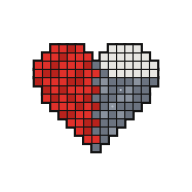
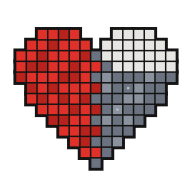
Add files via upload

diff --git a/index.html b/index.html
@@ -1,7 +1,7 @@
 <!DOCTYPE html>
 <html lang="es">
 <head>
- <link rel="manifest" href="manifest.json"><link rel="apple-touch-icon" href="icon-192.png"><link rel="icon" href="favicon.ico" sizes="any"><link rel="icon" type="image/png" href="favicon-32.png">
+ <link rel="manifest" href="manifest.json"><link rel="apple-touch-icon" href="apple-touch-icon.png"><link rel="icon" href="favicon.ico" sizes="any"><link rel="icon" type="image/png" href="favicon-32.png">
 <meta charset="utf-8">
 <meta name="viewport" content="width=device-width, initial-scale=1">
 <meta name="theme-color" content="#000000">
@@ -12,7 +12,7 @@
 body{background:#111;color:#f5f5f5;font-family:system-ui,-apple-system,"Segoe UI",Roboto,sans-serif;display:flex;align-items:center;justify-content:center;padding:16px;overflow:hidden;position:relative}
 .b1,.b2,.b3{position:absolute;border-radius:50%;z-index:0}.b1{width:220px;height:220px;left:-60px;top:-50px;background:#fff}.b2{width:160px;height:160px;right:-30px;top:45%;background:#555}.b3{width:260px;height:260px;left:25%;bottom:-140px;background:#2a2a2a}
 .card{position:relative;z-index:1;width:100%;max-width:360px;border:1px solid rgba(255,255,255,.2);border-radius:14px;padding:22px 18px;background:rgba(0,0,0,.5);-webkit-backdrop-filter:blur(18px);backdrop-filter:blur(18px)}
-.logo{display:block;width:56px;height:56px;border-radius:12px;background:#fff;margin-bottom:14px}
+.logo{display:block;width:56px;height:56px;border-radius:13px;margin-bottom:14px}
 h1{font-size:1.3rem;margin:0 0 4px}p{margin:0 0 14px;color:#bbb;font-size:.9rem}
 label{display:block;font-size:.8rem;color:#bbb;margin-bottom:4px}
 input[type=password]{width:100%;min-height:46px;border-radius:8px;border:1px solid rgba(255,255,255,.3);background:rgba(255,255,255,.06);color:#fff;font:inherit;padding:10px 12px}
@@ -27,7 +27,7 @@ button.ghost{background:none;color:#fff;border:1px solid rgba(255,255,255,.35);m
 <body>
 <span class="b1"></span><span class="b2"></span><span class="b3"></span>
 <form class="card" id="f" autocomplete="off">
- <img class="logo" src="icon-192.png" alt="" width="56" height="56">
+ <img class="logo" src="apple-touch-icon.png" alt="" width="56" height="56">
  <h1>Mi Rutina</h1>
  <p>Escribe tu contraseña para abrir la app.</p>
  <label for="pw">Contraseña</label>
@@ -49,7 +49,7 @@ var raw = unb64(PAYLOAD), salt = raw.slice(0,16), iv = raw.slice(16,28), ct = ra
 function openApp(key){
   return crypto.subtle.decrypt({name:"AES-GCM", iv:iv}, key, ct).then(function(pt){
     var html = new TextDecoder().decode(pt);
-    var PWA = '<link rel="manifest" href="manifest.json"><link rel="apple-touch-icon" href="icon-192.png"><link rel="icon" href="favicon.ico" sizes="any"><link rel="icon" type="image/png" href="favicon-32.png"><meta name="theme-color" content="#000000">';
+    var PWA = '<link rel="manifest" href="manifest.json"><link rel="apple-touch-icon" href="apple-touch-icon.png"><link rel="icon" href="favicon.ico" sizes="any"><link rel="icon" type="image/png" href="favicon-32.png"><meta name="theme-color" content="#000000">';
     html = html.replace(/<link[^>]*rel=["\']?manifest["\']?[^>]*>/gi, "");
     if (/<head(\s[^>]*)?>/i.test(html)) html = html.replace(/<head(\s[^>]*)?>/i, function(m){ return m + PWA; }); else html = PWA + html;
     var go = function(){ document.open(); document.write(html); document.close(); };

diff --git a/sw.js b/sw.js
@@ -1,6 +1,6 @@
 // Mi Rutina - service worker: funciona sin internet y se actualiza cuando hay señal
-const CACHE = 'mi-rutina-v2';
-const BASE = ['./', './index.html', './manifest.json', './icon-192.png', './icon-512.png', './favicon.ico', './favicon-32.png'];
+const CACHE = 'mi-rutina-v3';
+const BASE = ['./', './index.html', './manifest.json', './icon-192.png', './icon-512.png', './favicon.ico', './favicon-32.png', './apple-touch-icon.png', './icon-maskable-192.png', './icon-maskable-512.png'];
 
 self.addEventListener('install', e => {
   e.waitUntil(caches.open(CACHE).then(c => c.addAll(BASE)).then(() => self.skipWaiting()));
